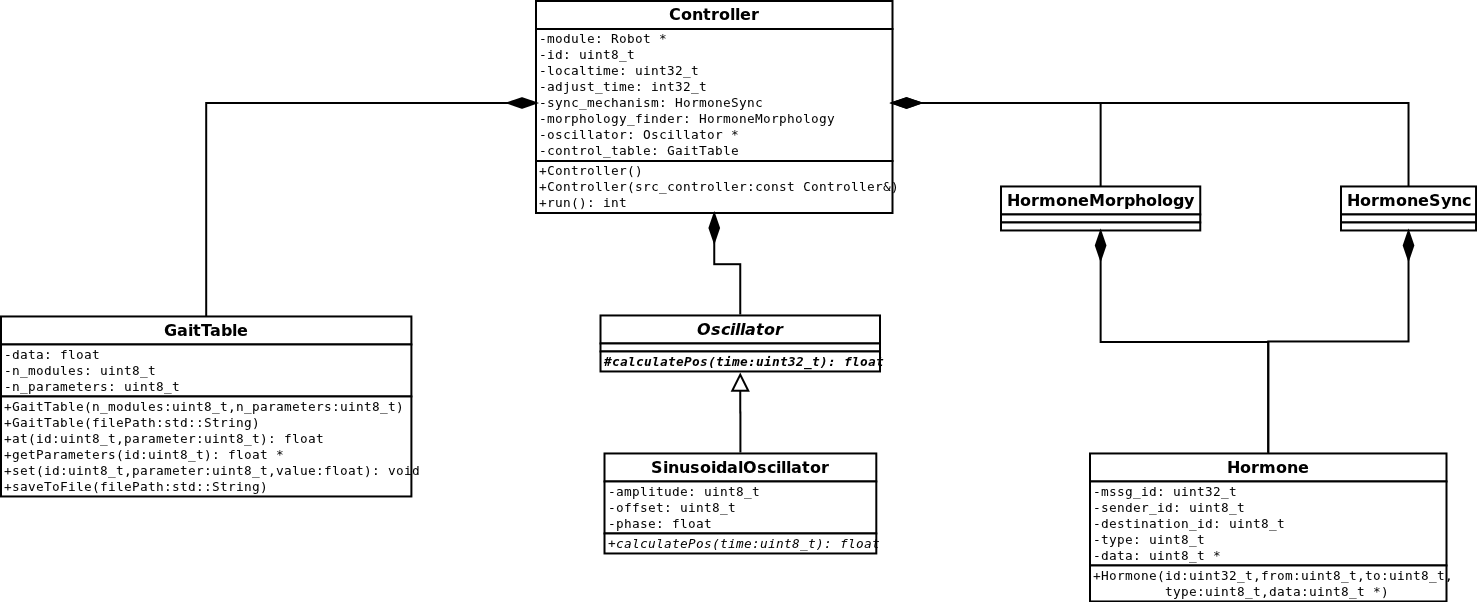
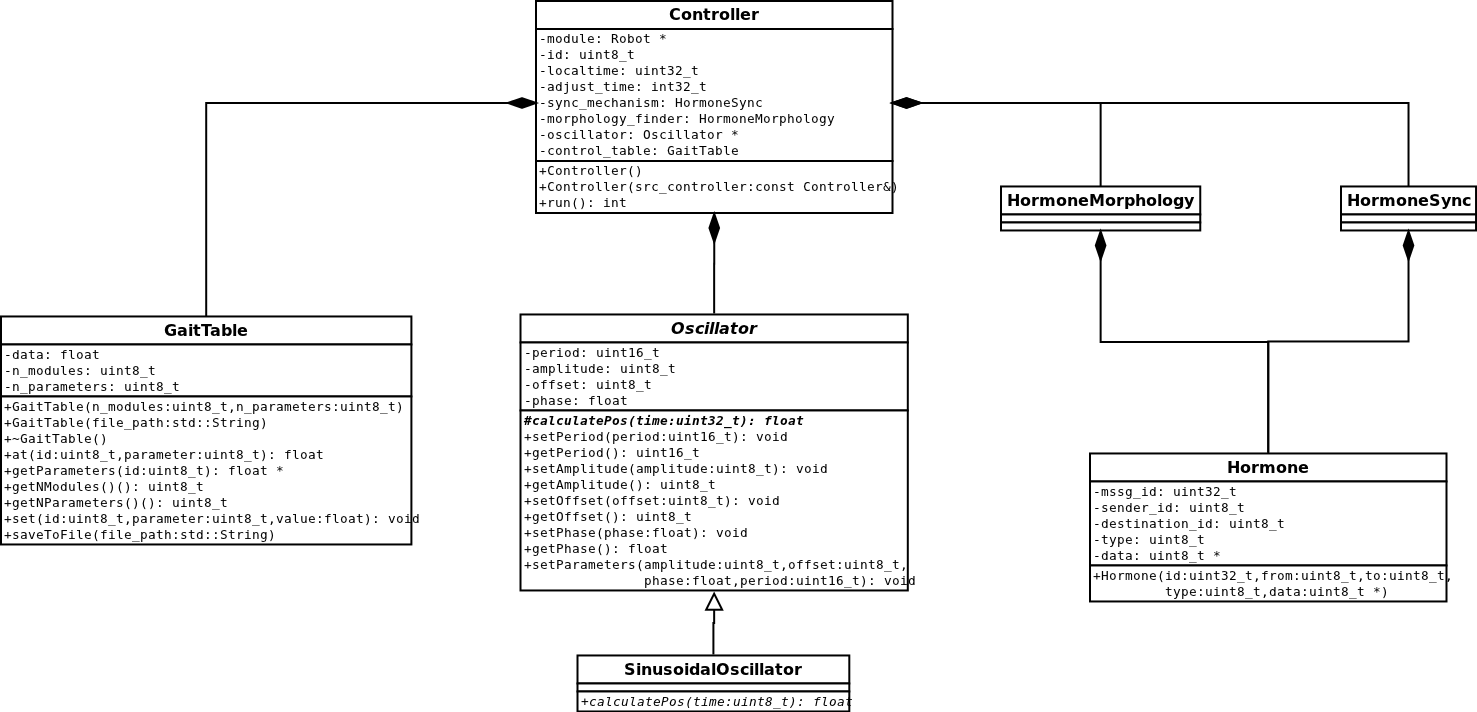
Added Oscillator, SinusoidalOscillator (tested)

diff --git a/src/Controller/Testing/testSinusoidalOscillator.cpp b/src/Controller/Testing/testSinusoidalOscillator.cpp
@@ -1,0 +1,49 @@
+#include "SinusoidalOscillator.h"
+#include "assert.h"
+#include <iostream>
+
+int main(void)
+{
+    //-- Reference sinusoidal wavefrom precalculated with octave
+    static const float sineReference[200] = { 90,89.98519681097196,89.94080185284815,89.86685893809241,89.76344103943434,89.63065021785414,89.46861752186066,89.27750285816242,89.05749483385894,88.8088105703083,88.53169548885461,88.22642306862676,87.89329457664755,87.53263877051944,87.14481157398058,86.73019572565104,86.28920040131591,85.82226081011831,85.32983776506046,84.81241722823685,84.27050983124843,83.70465037127072,83.11539728327368,82.50333208891379,81.86905882264234,81.21320343559643,80.53641317786067,79.83935595970955,79.12271969246069,78.38721160958929,77.63355756877419,76.86250133556392,76.07480384936991,75.27124247251113,74.45261022305145,73.6197149921864,72.77337874695219,71.91443671904342,71.04373658054033,70.16213760735874,69.27050983124843,68.36973318117688,67.46069661494565,66.54429724189627,65.62143943757174,64.69303395120693,63.75999700692914,62.82324939955544,61.8837155858794,60.94232277234384,60,59.05767722765616,58.11628441412061,57.17675060044458,56.24000299307087,55.30696604879307,54.37856056242828,53.45570275810373,52.53930338505435,51.63026681882312,50.72949016875158,49.83786239264127,48.95626341945967,48.08556328095659,47.22662125304782,46.3802850078136,45.54738977694853,44.72875752748887,43.92519615063011,43.13749866443608,42.36644243122581,41.61278839041071,40.87728030753931,40.16064404029045,39.46358682213933,38.78679656440357,38.13094117735766,37.49666791108622,36.88460271672632,36.29534962872928,35.72949016875158,35.18758277176315,34.67016223493955,34.17773918988171,33.71079959868409,33.26980427434897,32.85518842601941,32.46736122948056,32.10670542335245,31.77357693137323,31.46830451114539,31.19118942969171,30.94250516614107,30.72249714183758,30.53138247813934,30.36934978214587,30.23655896056566,30.1331410619076,30.05919814715185,30.01480318902805,30,30.01480318902805,30.05919814715185,30.1331410619076,30.23655896056566,30.36934978214587,30.53138247813934,30.72249714183758,30.94250516614107,31.1911894296917,31.46830451114539,31.77357693137323,32.10670542335245,32.46736122948056,32.85518842601941,33.26980427434896,33.7107995986841,34.17773918988168,34.67016223493955,35.18758277176315,35.72949016875157,36.29534962872928,36.88460271672631,37.49666791108622,38.13094117735764,38.78679656440357,39.46358682213933,40.16064404029045,40.87728030753929,41.61278839041071,42.36644243122581,43.13749866443607,43.92519615063011,44.72875752748884,45.54738977694853,46.3802850078136,47.22662125304781,48.08556328095656,48.95626341945966,49.83786239264126,50.72949016875157,51.63026681882312,52.53930338505434,53.45570275810373,54.37856056242826,55.30696604879307,56.24000299307086,57.17675060044455,58.1162844141206,59.05767722765614,59.99999999999999,60.94232277234384,61.88371558587941,62.82324939955541,63.75999700692913,64.69303395120691,65.62143943757172,66.54429724189626,67.46069661494565,68.36973318117687,69.27050983124842,70.16213760735873,71.04373658054033,71.91443671904342,72.77337874695218,73.6197149921864,74.45261022305145,75.27124247251112,76.0748038493699,76.86250133556391,77.63355756877419,78.38721160958929,79.12271969246069,79.83935595970954,80.53641317786065,81.21320343559643,81.86905882264233,82.50333208891379,83.11539728327368,83.70465037127069,84.27050983124843,84.81241722823685,85.32983776506045,85.82226081011829,86.28920040131591,86.73019572565103,87.14481157398058,87.53263877051943,87.89329457664755,88.22642306862676,88.53169548885461,88.8088105703083,89.05749483385894,89.27750285816242,89.46861752186065,89.63065021785413,89.76344103943433,89.86685893809241,89.94080185284815,89.98519681097196};
+    static const uint8_t AMPLITUDE = 30;
+    static const int8_t OFFSET = -30;
+    static const uint16_t PERIOD = 3000;
+    static const float PHASE = 90;
+
+    //-- Testing sinusoidal oscillator
+    //-----------------------------------------------------------
+    std::cout << "Testing Sinusoidal Oscillator" << std::endl;
+
+    //-- Create sinusoidal oscillator
+    std::cout << "\tCreating sinusoidal oscillator..." << std::endl;
+    SinusoidalOscillator testOscillator( AMPLITUDE, OFFSET, PHASE, PERIOD);
+
+    //-- Check the parameters
+    std::cout << "\tChecking parameters..." << std::endl;
+    assert( testOscillator.getAmplitude() == AMPLITUDE );
+    assert( testOscillator.getOffset() == OFFSET);
+    assert( testOscillator.getPeriod() == PERIOD);
+    assert( testOscillator.getPhase() - PHASE < 0.0001 && testOscillator.getPhase() - PHASE > -0.0001);
+
+    //-- Run it 200 times for a full period:
+    std::cout << "\tChecking oscillation..." << std::endl;
+    int sampleTime = PERIOD / 200;
+    uint32_t currentTime = 0;
+    float sineOscillation[200];
+
+    for (int i = 0; i<200; i++)
+    {
+        sineOscillation[i] = testOscillator.calculatePos( currentTime);
+        currentTime += sampleTime;
+    }
+
+    for (int i = 0; i < 200; i++)
+    {
+        float difference = sineOscillation[i] - sineReference[i];
+        assert( difference < 0.0001 && difference > -0.0001 );
+    }
+
+    std::cout << "Sinusoidal Oscillator test finished correctly!" << std::endl << std::endl;
+    return 0;
+}

diff --git a/src/Controller/Oscillator.h b/src/Controller/Oscillator.h
@@ -1,0 +1,76 @@
+//------------------------------------------------------------------------------
+//-- Oscillator
+//------------------------------------------------------------------------------
+//--
+//-- Abstract class that serves as a base to create different oscillators
+//--
+//------------------------------------------------------------------------------
+//--
+//-- This file belongs to the Hormodular project
+//-- (https://github.com/David-Estevez/hormodular.git)
+//--
+//------------------------------------------------------------------------------
+//-- Author: David Estevez-Fernandez
+//--
+//-- Released under the GPL license (more info on LICENSE.txt file)
+//------------------------------------------------------------------------------
+
+/*! \file Oscillator.h
+ *  \brief Abstract class that serves as a base to create different oscillators
+ *
+ * \author David Estévez Fernández ( http://github.com/David-Estevez )
+ * \date Nov 27th, 2013
+ */
+
+#ifndef OSCILLATOR_H
+#define OSCILLATOR_H
+
+#include <stdint.h>
+#include <iostream>
+
+/*! \class Oscillator
+ *  \brief Abstract class that serves as a base to create different oscillators
+ */
+class Oscillator
+{
+
+   public:
+        void setPeriod( uint16_t period_ms);
+        uint16_t getPeriod( );
+
+        void setAmplitude( uint8_t amplitude);
+        uint8_t getAmplitude();
+
+        void setOffset( int8_t offset);
+        int8_t getOffset();
+
+        void setPhase( float phase);
+        float getPhase();
+
+        /*! \brief Set all the oscillator parameters at once
+         *
+         * \param amplitude Amplitude of the oscillation, [0,90] degrees
+         * \param offset Offset of the oscillation, [-90,90] degrees
+         * \param phase Phase of the oscillation [0, 360] degrees
+         * \param period Period of the oscillation in ms. A value of 0 means "use the current value".
+         */
+        void setParameters( uint8_t amplitude, uint8_t offset, float phase, uint16_t period_ms = 0);
+
+        /*! \brief Calculate the position of the oscillator at time
+         *
+         *  \param time Time at which the oscillation is calculated
+         *  \return Position of the oscillator at given time
+         */
+        virtual float calculatePos( uint32_t time ) = 0;
+
+    protected:
+        Oscillator();
+        Oscillator( uint8_t amplitude, uint8_t offset, float phase, uint16_t period_ms = 4000);
+
+        uint16_t period_ms;
+        uint8_t amplitude;
+        int8_t offset;
+        float phase;
+};
+
+#endif

diff --git a/src/Controller/Oscillator.cpp b/src/Controller/Oscillator.cpp
@@ -1,0 +1,64 @@
+#include "Oscillator.h"
+
+
+
+//-- Setting and getting parameters
+//-------------------------------------------------------------------------------------------
+void Oscillator::setPeriod(uint16_t period_ms)
+{
+    if ( period_ms != 0)
+        this->period_ms = period_ms;
+    else
+        std::cerr << "[Oscillator] Period cannot be set to 0 ms";
+}
+
+void Oscillator::setAmplitude(uint8_t amplitude)
+{
+    if ( amplitude <= 90 )
+        this->amplitude = amplitude;
+    else
+        std::cerr << "[Oscillator] Amplitude out of range [0,90] (Got: " << amplitude << ")\n";
+}
+
+void Oscillator::setOffset(int8_t offset)
+{
+    if ( offset >= -90 && offset <= 90 )
+        this->offset = offset;
+    else
+        std::cerr << "[Oscillator] Offset out of range [-90,90] (Got: " << offset << ")\n";
+}
+
+void Oscillator::setPhase(float phase)
+{
+    this->phase = phase;
+}
+
+void Oscillator::setParameters(uint8_t amplitude, uint8_t offset, float phase, uint16_t period_ms)
+{
+    setAmplitude(amplitude);
+    setOffset(offset);
+    setPhase(phase);
+    if ( period_ms != 0 ) this->period_ms = period_ms;
+}
+
+uint16_t Oscillator::getPeriod()    { return period_ms; }
+uint8_t Oscillator::getAmplitude() { return amplitude; }
+int8_t Oscillator::getOffset()    { return offset; }
+float Oscillator::getPhase()     { return phase; }
+
+//-- Constructors
+Oscillator::Oscillator()
+{
+    this->amplitude = 0;
+    this->offset = 0;
+    this->phase = 0;
+    this->period_ms = 4000;
+}
+
+Oscillator::Oscillator(uint8_t amplitude, uint8_t offset, float phase, uint16_t period_ms)
+{
+    this->amplitude = amplitude;
+    this->offset = offset;
+    this->phase = phase;
+    this->period_ms = period_ms;
+}

diff --git a/src/Controller/SinusoidalOscillator.h b/src/Controller/SinusoidalOscillator.h
@@ -1,0 +1,49 @@
+//------------------------------------------------------------------------------
+//-- SinusoidalOscillator
+//------------------------------------------------------------------------------
+//--
+//-- Sinusoidal oscillator
+//--
+//------------------------------------------------------------------------------
+//--
+//-- This file belongs to the Hormodular project
+//-- (https://github.com/David-Estevez/hormodular.git)
+//--
+//------------------------------------------------------------------------------
+//-- Author: David Estevez-Fernandez
+//--
+//-- Released under the GPL license (more info on LICENSE.txt file)
+//------------------------------------------------------------------------------
+
+/*! \file SinusoidalOscillator.h
+ *  \brief Generate oscillations using a sine function
+ *
+ * \author David Estévez Fernández ( http://github.com/David-Estevez )
+ * \date Nov 27th, 2013
+ */
+
+#ifndef SINUSOIDAL_OSCILLATOR_H
+#define SINUSOIDAL_OSCILLATOR_H
+
+#include <stdint.h>
+#include <cmath>
+#include <iostream>
+
+#include "Oscillator.h"
+
+/*! \class SinsoidalOscillator
+ *  \brief Generate oscillations using a sine function
+ */
+class SinusoidalOscillator: public Oscillator
+{
+    public:
+        SinusoidalOscillator();
+        SinusoidalOscillator( uint8_t amplitude, uint8_t offset, float phase, uint16_t period_ms = 4000);
+
+        virtual float calculatePos( uint32_t time );
+
+    private:
+        float deg2rad( float angle_deg);
+};
+
+#endif

diff --git a/src/Controller/Testing/testGaitTable.cpp b/src/Controller/Testing/testGaitTable.cpp
@@ -9,9 +9,11 @@ int main(void)
     static const uint8_t N_PARAM = 3;
     static const std::string FILEPATH = "./test_gaittable_file.txt";
 
+    std::cout << "Testing Gait Table" << std::endl;
+
     //-- Testing gait table (empty)
     //-------------------------------------------------------------------
-    std::cout << "Testing Gait Table (Empty)" << std::endl;
+    std::cout << "\tTesting Gait Table (Empty)" << std::endl;
     //-- Create table:
     std::cout << "\tCreating empty table..." << std::endl;
     GaitTable emptyGaitTable( N_MODULES, N_PARAM);

diff --git a/src/Controller/SinusoidalOscillator.cpp b/src/Controller/SinusoidalOscillator.cpp
@@ -1,0 +1,15 @@
+#include "SinusoidalOscillator.h"
+
+SinusoidalOscillator::SinusoidalOscillator(): Oscillator() {}
+
+SinusoidalOscillator::SinusoidalOscillator(uint8_t amplitude, uint8_t offset, float phase, uint16_t period_ms): Oscillator::Oscillator( amplitude, offset, phase, period_ms) {}
+
+float SinusoidalOscillator::calculatePos(uint32_t time)
+{
+    return 90 + amplitude*sin( 2*M_PI*time/period_ms + deg2rad(phase)) + offset;
+}
+
+float SinusoidalOscillator::deg2rad(float angle_deg)
+{
+    return M_PI * angle_deg / 180;
+}
